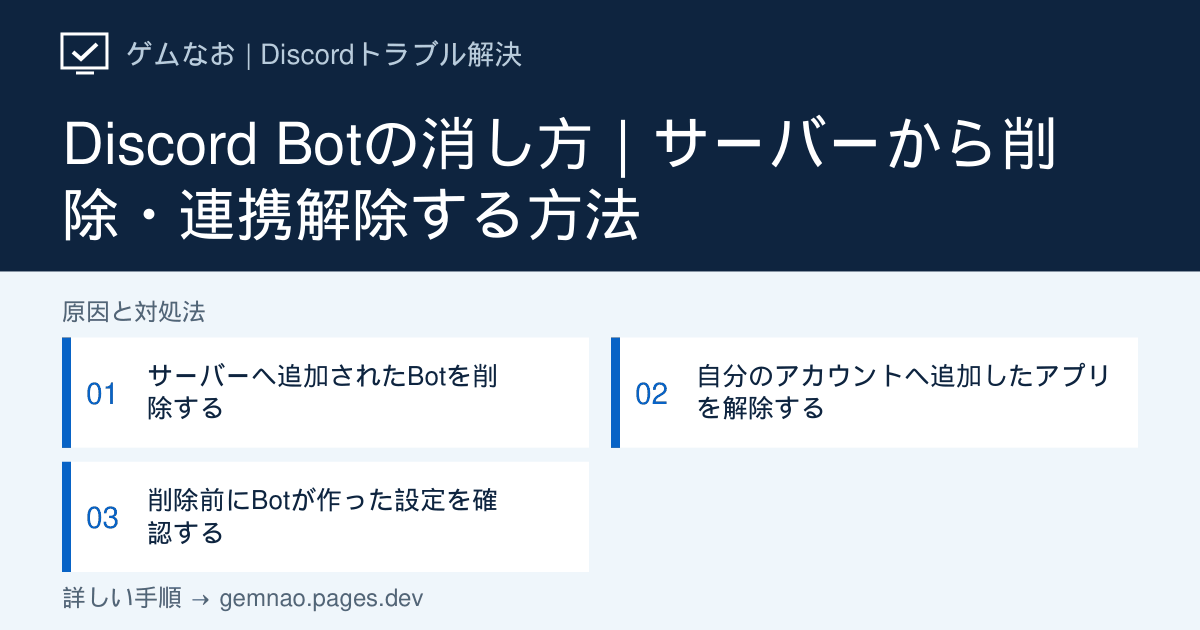
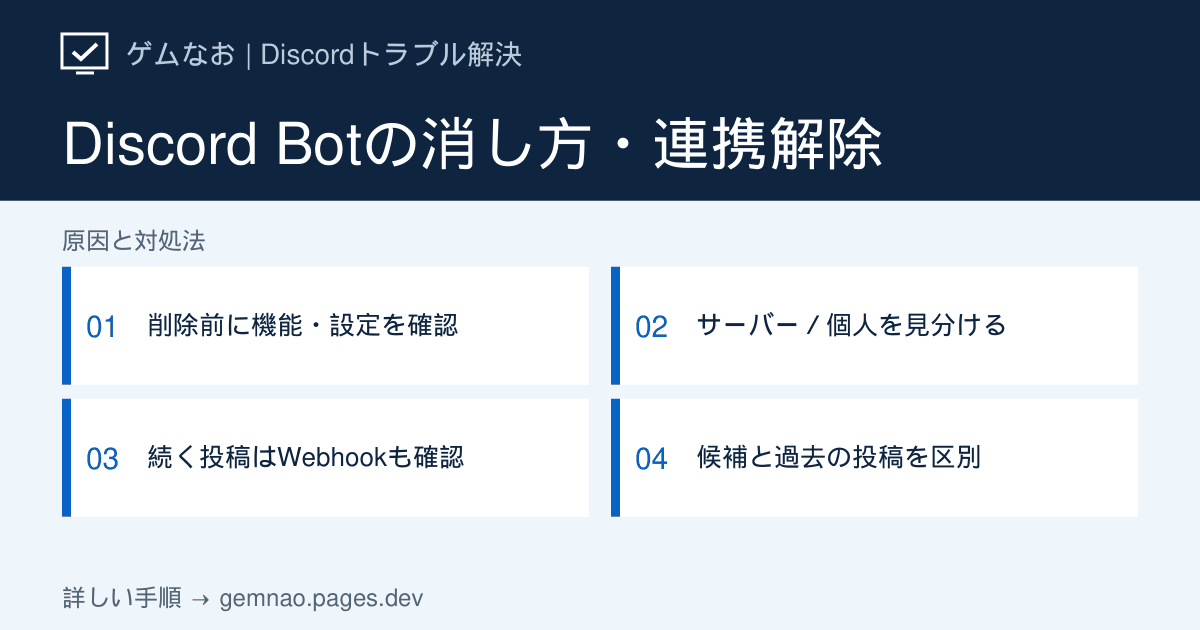
Rewrite bot removal guide with pre-removal checks and residual post diagnosis

diff --git a/lib/discord-bot-articles.ts b/lib/discord-bot-articles.ts
@@ -187,82 +187,105 @@ export const discordBotArticles: DiscordArticle[] = [
   {
     slug: 'bot-remove',
     category: 'bot',
-    title: 'Discord Botの消し方｜サーバーから削除・連携解除する方法',
+    title: 'Discord Botの消し方・連携解除｜削除後も投稿が続く時の確認',
     shortTitle: 'Botの消し方・連携解除',
-    seoTitle: 'Discord Botの消し方｜サーバーから削除・連携解除する方法',
-    metaDescription:
-      'Discord Botをサーバーから削除する方法と、自分のアカウントへ追加したアプリの連携解除を解説。必要な権限、削除前の確認、再追加時の注意も説明します。',
-    symptom:
-      '不要になったDiscord Botをサーバーから消したい、アカウントへ追加したアプリの連携を解除したい、削除ボタンが見つからない場合の手順です。',
-    target: 'Discordデスクトップ版・ブラウザ版／サーバー所有者・管理者',
-    conclusion:
-      'サーバーに追加されたBotはメンバー一覧から対象Botを右クリックしてキックします。自分のアカウントへ追加したアプリは、ユーザー設定の「連携済みアプリ」から対象アプリの認証を解除してください。',
+    seoTitle: 'Discord Botの消し方｜連携解除・Webhook・残るコマンドの確認',
+    metaDescription: 'Discord Botを消す前の確認から、サーバーのBot削除とアカウントの認証解除を解説。削除後も投稿が続く場合は、投稿時刻・Webhook・チャンネルフォロー・外部アプリを分けて調べます。',
+    symptom: 'Botを消したい、アプリの連携を解除したい、削除したのに投稿やコマンドが残る場合の手順です。',
+    target: 'Discordデスクトップ版・ブラウザ版／サーバー管理者と自分のアカウントの利用者',
+    conclusion: '最初にBotの担当機能と必要な設定を保存し、追加先を確認します。サーバーのBotはキックまたは連携サービスから削除、自分のアプリはユーザー設定の認証済みアプリから解除します。削除後の新しい投稿は、Webhook・チャンネルフォロー・他の利用者のアプリも確認してください。',
     quickFixes: [
-      'サーバーのメンバー一覧で対象Botを右クリックし、名前と提供元を確認する',
-      'サーバー追加型ならキック、アカウント追加型なら「連携済みアプリ」から解除する',
-      '削除前にBotが作成したロール・チャンネル・自動投稿設定の扱いを確認する',
+      '削除前に、認証・ロール付与・定期投稿など止まる機能と設定を確認する',
+      'サーバーの「連携サービス」と自分の「認証済みアプリ」で追加先を分ける',
+      '削除時刻を控え、残っている過去の投稿と削除後の新しい投稿を区別する',
+    ],
+    showStatusCheck: false,
+    diagnosisTitle: '削除前に確認：サーバー・アカウント・Webhookの判断表',
+    diagnosisIntro: '先にSTEP 1の事前確認を済ませてください。同じアプリがサーバーとアカウントの両方に入っていることもあります。名前やアイコンだけで決めず、どの設定画面に登録されているかで削除先を選びます。',
+    diagnosis: [
+      { symptom: 'サーバーのメンバー一覧・連携サービスに対象Botがいる', check: 'サーバー追加型。対象サーバーから削除する', causeIndex: 2 },
+      { symptom: '自分の「認証済みアプリ」に対象がある', check: '自分の認証を解除。サーバー側の追加とは別に確認', causeIndex: 3 },
+      { symptom: '両方の一覧に同じアプリがある', check: '止めたい範囲に応じて両方を処理。片方の解除で完了としない', causeIndex: 2 },
+      { symptom: 'Botはいないが、削除後も新しい自動投稿がある', check: '投稿先のWebhook・チャンネルフォローを照合', causeIndex: 4 },
+      { symptom: '誰かのコマンド操作に応じて投稿される', check: '利用者のアカウント追加型アプリも確認', causeIndex: 5 },
+      { symptom: '古い投稿・コマンド候補だけが残る', check: '履歴や表示と、現在の追加状態を分けて確認', causeIndex: 5 },
     ],
     causes: [
       {
-        title: 'サーバーへ追加されたBotを削除する',
-        description:
-          'Discord公式では、サーバーへ追加したアプリはメンバー一覧のBotをキックすることで削除できると案内しています。',
+        title: '削除前に、止まる機能と戻すための情報を確認する',
+        description: '認証Botやロール付与Botを先に消すと、新規メンバーが参加後に進めなくなることがあります。通常の整理では、担当機能の引き継ぎを済ませてから削除します。',
         actions: [
-          '対象サーバーを開き、メンバー一覧を表示する',
-          '削除するBotを右クリックする',
-          '名前とプロフィールを確認し、別のBotを選んでいないことを確認する',
-          '「キック」を選び、確認画面で削除する',
-          '「サーバー設定」→「連携サービス」で対象アプリが消えたか確認する',
+          '対象サーバー名、Bot名、プロフィールの提供元を照合する。「サーバー設定」→「連携サービス／Integrations」で登録状態も確認する。',
+          '担当している入室認証・ロール付与・管理ログ・定期投稿を確認し、使っている機能だけ代替手段を決める。',
+          '設定画面の記録や提供者のエクスポート機能で、必要な投稿先・ロール・設定を保存する。再追加で元通りになるとは限らない。',
+          '外部ダッシュボードの定期投稿や通知設定があるなら停止する。記録には削除予定の対象と時刻も残す。',
         ],
-        note: 'サーバー所有者または「サーバー管理」権限が必要です。権限がない場合は管理者へ依頼してください。',
+        note: '不審な投稿が進行中なら、詳細な整理より対象の停止を優先します。Webhook URL・トークンは相談用の画像や公開メモへ載せません。',
       },
       {
-        title: '自分のアカウントへ追加したアプリを解除する',
-        description:
-          'アカウントへ追加したアプリはサーバーメンバーとして表示されない場合があり、ユーザー設定の認証済みアプリから管理します。',
+        title: 'サーバーのBotは、対象をキックして追加状態を確認する',
+        description: 'PCではサーバーのメンバー一覧から対象Botを右クリックし、「キック」を選んで確認します。連携サービス内の対象アプリから削除する方法もあります。',
         actions: [
-          'Discordの歯車アイコンからユーザー設定を開く',
-          '「連携済みアプリ」または「Authorized Apps」を開く',
-          '対象アプリの名前と許可内容を確認する',
-          '認証解除を実行する',
-          'チャット欄のアプリ候補から消えたか確認する',
+          '削除確認に表示されたBot名と対象サーバーをもう一度照合して実行し、時刻を控える。',
+          'メンバー一覧と「サーバー設定」→「連携サービス」を開き直し、対象の登録が消えたか確認する。オフライン表示は削除の証拠にはならない。',
+          '削除項目がない場合はサーバー所有者へ依頼する。アプリ管理の権限に加え、メンバーのキックでは権限とロールの上下関係も確認対象になる。',
+          '自分のアカウントにも同じアプリがあるならSTEP 3へ。新しい投稿が続くならSTEP 4へ進む。',
+        ],
+        note: '他のサーバーに入っている同じBotまで一括で削除する操作ではありません。',
+      },
+      {
+        title: '自分のアカウントのアプリは、認証を解除する',
+        description: '歯車アイコンからユーザー設定を開き、「認証済みアプリ／Authorized Apps」で対象アプリを選び、認証解除を実行します。表示名は言語やバージョンにより異なる場合があります。',
+        actions: [
+          '対象の名前・提供元・許可内容を読んでから解除する。Spotifyなどを接続する「接続／Connections」とは確認先が異なる。',
+          '認証済みアプリの一覧を開き直し、対象が消えたか確認する。サーバーの連携サービスに対象が残る場合は、必要に応じてSTEP 2も行う。',
+          '自分の一覧にない場合は別のアプリを代わりに消さない。他のメンバーのアプリは、その本人の設定またはサーバー側の利用制限で対応する。',
         ],
       },
       {
-        title: '削除前にBotが作った設定を確認する',
-        description:
-          'Botを削除しても、作成済みのロール・チャンネル・Webhook・投稿メッセージが自動で消えるとは限りません。',
+        title: '削除後も新しい投稿が続くなら、Webhookと転送元を調べる',
+        description: 'まず投稿時刻を削除時刻と比較します。削除前のメッセージが残っているだけなら、Botが今も動いている証拠にはなりません。以下は削除後に増えた投稿を調べる手順です。',
         actions: [
-          'Botが作成したロールや専用チャンネルを確認する',
-          'Botのダッシュボードで定期投稿やWebhookを設定していた場合は停止する',
-          '必要なログや設定がある場合は削除前に保存する',
-          'Bot削除後、不要になったロール・チャンネル・Webhookだけを個別に整理する',
+          '新しい投稿のチャンネル・時刻・投稿者名・メッセージリンクを控える。例として「10:00に削除、10:05に同じチャンネルへ通知」なら10:05の投稿元を調べる。',
+          '「サーバー設定」→「連携サービス」→Webhookの一覧を開く。投稿先チャンネル、作成者、作成日時を照合し、同じ名前だけで削除対象を決めない。',
+          '外部サービスの通知と一致したら、その送信設定を止める。不要と確認できたWebhookは対象だけ削除する。再作成時は新しいURLを外部サービス側へ設定し直す必要がある。',
+          '別サーバーのお知らせが転送されているなら、連携サービス内のチャンネルフォローを確認する。不要な転送元だけ解除する。',
+          '削除後の次の予定通知で、新しい投稿が増えないか確認する。まだ増える場合は、その新しいメッセージを基に別のWebhook・別Bot・利用者操作を調べる。',
         ],
-        note: '名前だけで判断せず、監査ログや連携サービスから作成元を確認してから削除してください。',
+        note: 'Webhookは外部サービスから投稿する入口です。Bot本体の削除と、別途作成された投稿経路の停止を同じものとして扱わないでください。対象が特定できない場合は管理者に記録を渡します。',
+      },
+      {
+        title: 'コマンド・過去の投稿・ロールが残る時は、残った物ごとに判断する',
+        description: '候補表示を消すこと、今後の投稿を止めること、過去の履歴を整理することは別の作業です。',
+        actions: [
+          'コマンド候補が残る場合：Discordを再読み込みし、候補のアプリ名とサーバー・自分の追加一覧を照合する。App Launcherには未追加アプリの検索・おすすめもあるため、そこに見えるだけで再追加済みと判定しない。',
+          '他のメンバーが操作すると返事が出る場合：本人のアカウント追加型アプリを確認する。管理者は「サーバー設定」→「ロール」のアプリ関連権限にある「外部アプリを使用／Use External Apps」やチャンネル権限を確認する。',
+          '外部アプリの公開返信を止めたい場合：対象ロール・チャンネルで外部アプリの利用権限を制限する。本人だけに見える返信は引き続き使える場合があり、これは本人のアプリの削除とは異なる。',
+          '過去の投稿だけが残る場合：必要なログを保存してから、権限を持つ管理者が不要なメッセージだけ整理する。',
+          'ロールや専用チャンネルが残る場合：利用者・閲覧権限・他の機能の利用を確認し、不要なものだけ整理する。Botと同じ名前という理由だけで消さない。',
+        ],
       },
     ],
-    ifNotFixed:
-      'キックが表示されない場合は、自分に必要な管理権限がありません。サーバー所有者へ削除を依頼してください。削除後もコマンドや連携表示が残る場合はDiscordを再読み込みし、ユーザー設定の連携済みアプリとサーバー設定の連携サービスを両方確認してください。',
+    ifNotFixed: '管理者へ「対象サーバーとアプリ名／削除・解除した画面と時刻／現在どの一覧に残るか／新しい投稿のリンクと時刻」を渡してください。監査ログを閲覧できる場合はBot追加・キック・Webhook変更などの記録も確認します。外部ダッシュボードの設定や保存データについてはBot提供者へ確認します。',
     faqs: [
-      {
-        question: 'Botをキックすると後から再追加できますか？',
-        answer:
-          '通常は再追加できます。ただし以前の設定が残るかはBotごとに異なるため、再導入前に提供者の案内を確認してください。',
-      },
-      {
-        question: 'Botを削除すると過去のメッセージも消えますか？',
-        answer:
-          '通常、Botをサーバーから削除しただけでは過去の投稿がすべて自動削除されるわけではありません。必要に応じて権限を持つ管理者が個別に整理します。',
-      },
-      {
-        question: 'サーバーにいないBotがコマンド候補へ出ます',
-        answer:
-          '自分のアカウントへ追加されたアプリの可能性があります。ユーザー設定の「連携済みアプリ」から対象アプリを確認してください。',
-      },
+      { question: 'Botを消すにはBANが必要ですか？', answer: '通常の削除はキックまたは連携サービスから行えます。再参加を禁止するBANとは目的が違います。再追加して以前の設定が戻るかはBotによって異なります。' },
+      { question: '認証解除したのにサーバーのBotが残るのはなぜ？', answer: '自分のアカウントの認証と、サーバーへの追加は別です。サーバー側も止めるなら、そのサーバーの管理者が対象Botを削除します。' },
+      { question: 'Bot削除で過去のメッセージや保存データも全部消えますか？', answer: '過去の投稿や外部サービスに保存されたデータまで一括で削除する操作ではありません。投稿は別途整理し、提供者側のデータ削除はそのサービスの案内に従います。' },
+      { question: 'Webhookを消したら元に戻せますか？', answer: '削除前と同じURLが復元できる前提で作業しないでください。再作成したWebhookのURLを、通知元のサービスへ設定し直す必要があります。利用中の連携を確認してから対象を選びます。' },
     ],
-    sources: [usingApps, permissions],
-    related: ['bot-add', 'bot-not-responding', 'overlay-not-showing'],
-    checkedAt: '2026-09-20',
+    sources: [
+      usingApps,
+      permissions,
+      { label: 'Discord公式：Moderating Apps on Discord（外部アプリの制限）', url: 'https://support-apps.discord.com/hc/en-us/articles/26501864012951-Moderating-Apps-on-Discord' },
+      { label: 'Discord公式：Server Integrations Page（Webhook・チャンネルフォロー）', url: 'https://support.discord.com/hc/en-us/articles/360045093012-Server-Integrations-Page' },
+      { label: 'Discord公式：Intro to Webhooks', url: 'https://support.discord.com/hc/en-us/articles/228383668-Intro-to-Webhooks' },
+      { label: 'Discord公式：Discord Roles and Permissions（キックとロールの順序）', url: 'https://support.discord.com/hc/en-us/articles/214836687-Discord-Roles-and-Permissions' },
+      { label: 'Discord公式：アカウントの保護と認証済みアプリの解除', url: 'https://support.discord.com/hc/en-us/articles/24160905919511-My-Discord-Account-was-Hacked-or-Compromised' },
+    ],
+    related: ['bot-add', 'bot-not-responding'],
+    checkedAt: '2026-09-28',
     status: 'verified',
+    ogTitle: 'Discord Botの消し方・連携解除',
+    ogSteps: ['削除前に機能・設定を確認', 'サーバー／個人を見分ける', '続く投稿はWebhookも確認', '候補と過去の投稿を区別'],
   },
 ];

diff --git a/lib/og-image-manifest.ts b/lib/og-image-manifest.ts
@@ -5,7 +5,7 @@ export const ogImageManifest: Record<string, string> = {
   "/discord/bluetooth-audio-problem": "204d6798",
   "/discord/bot-add": "77bf7c24",
   "/discord/bot-not-responding": "905417cd",
-  "/discord/bot-remove": "b35c5c5b",
+  "/discord/bot-remove": "cc1635c6",
   "/discord/call-disconnects": "bb6b1e0b",
   "/discord/camera-not-working": "1a81ecf4",
   "/discord/crashing": "10557b11",
